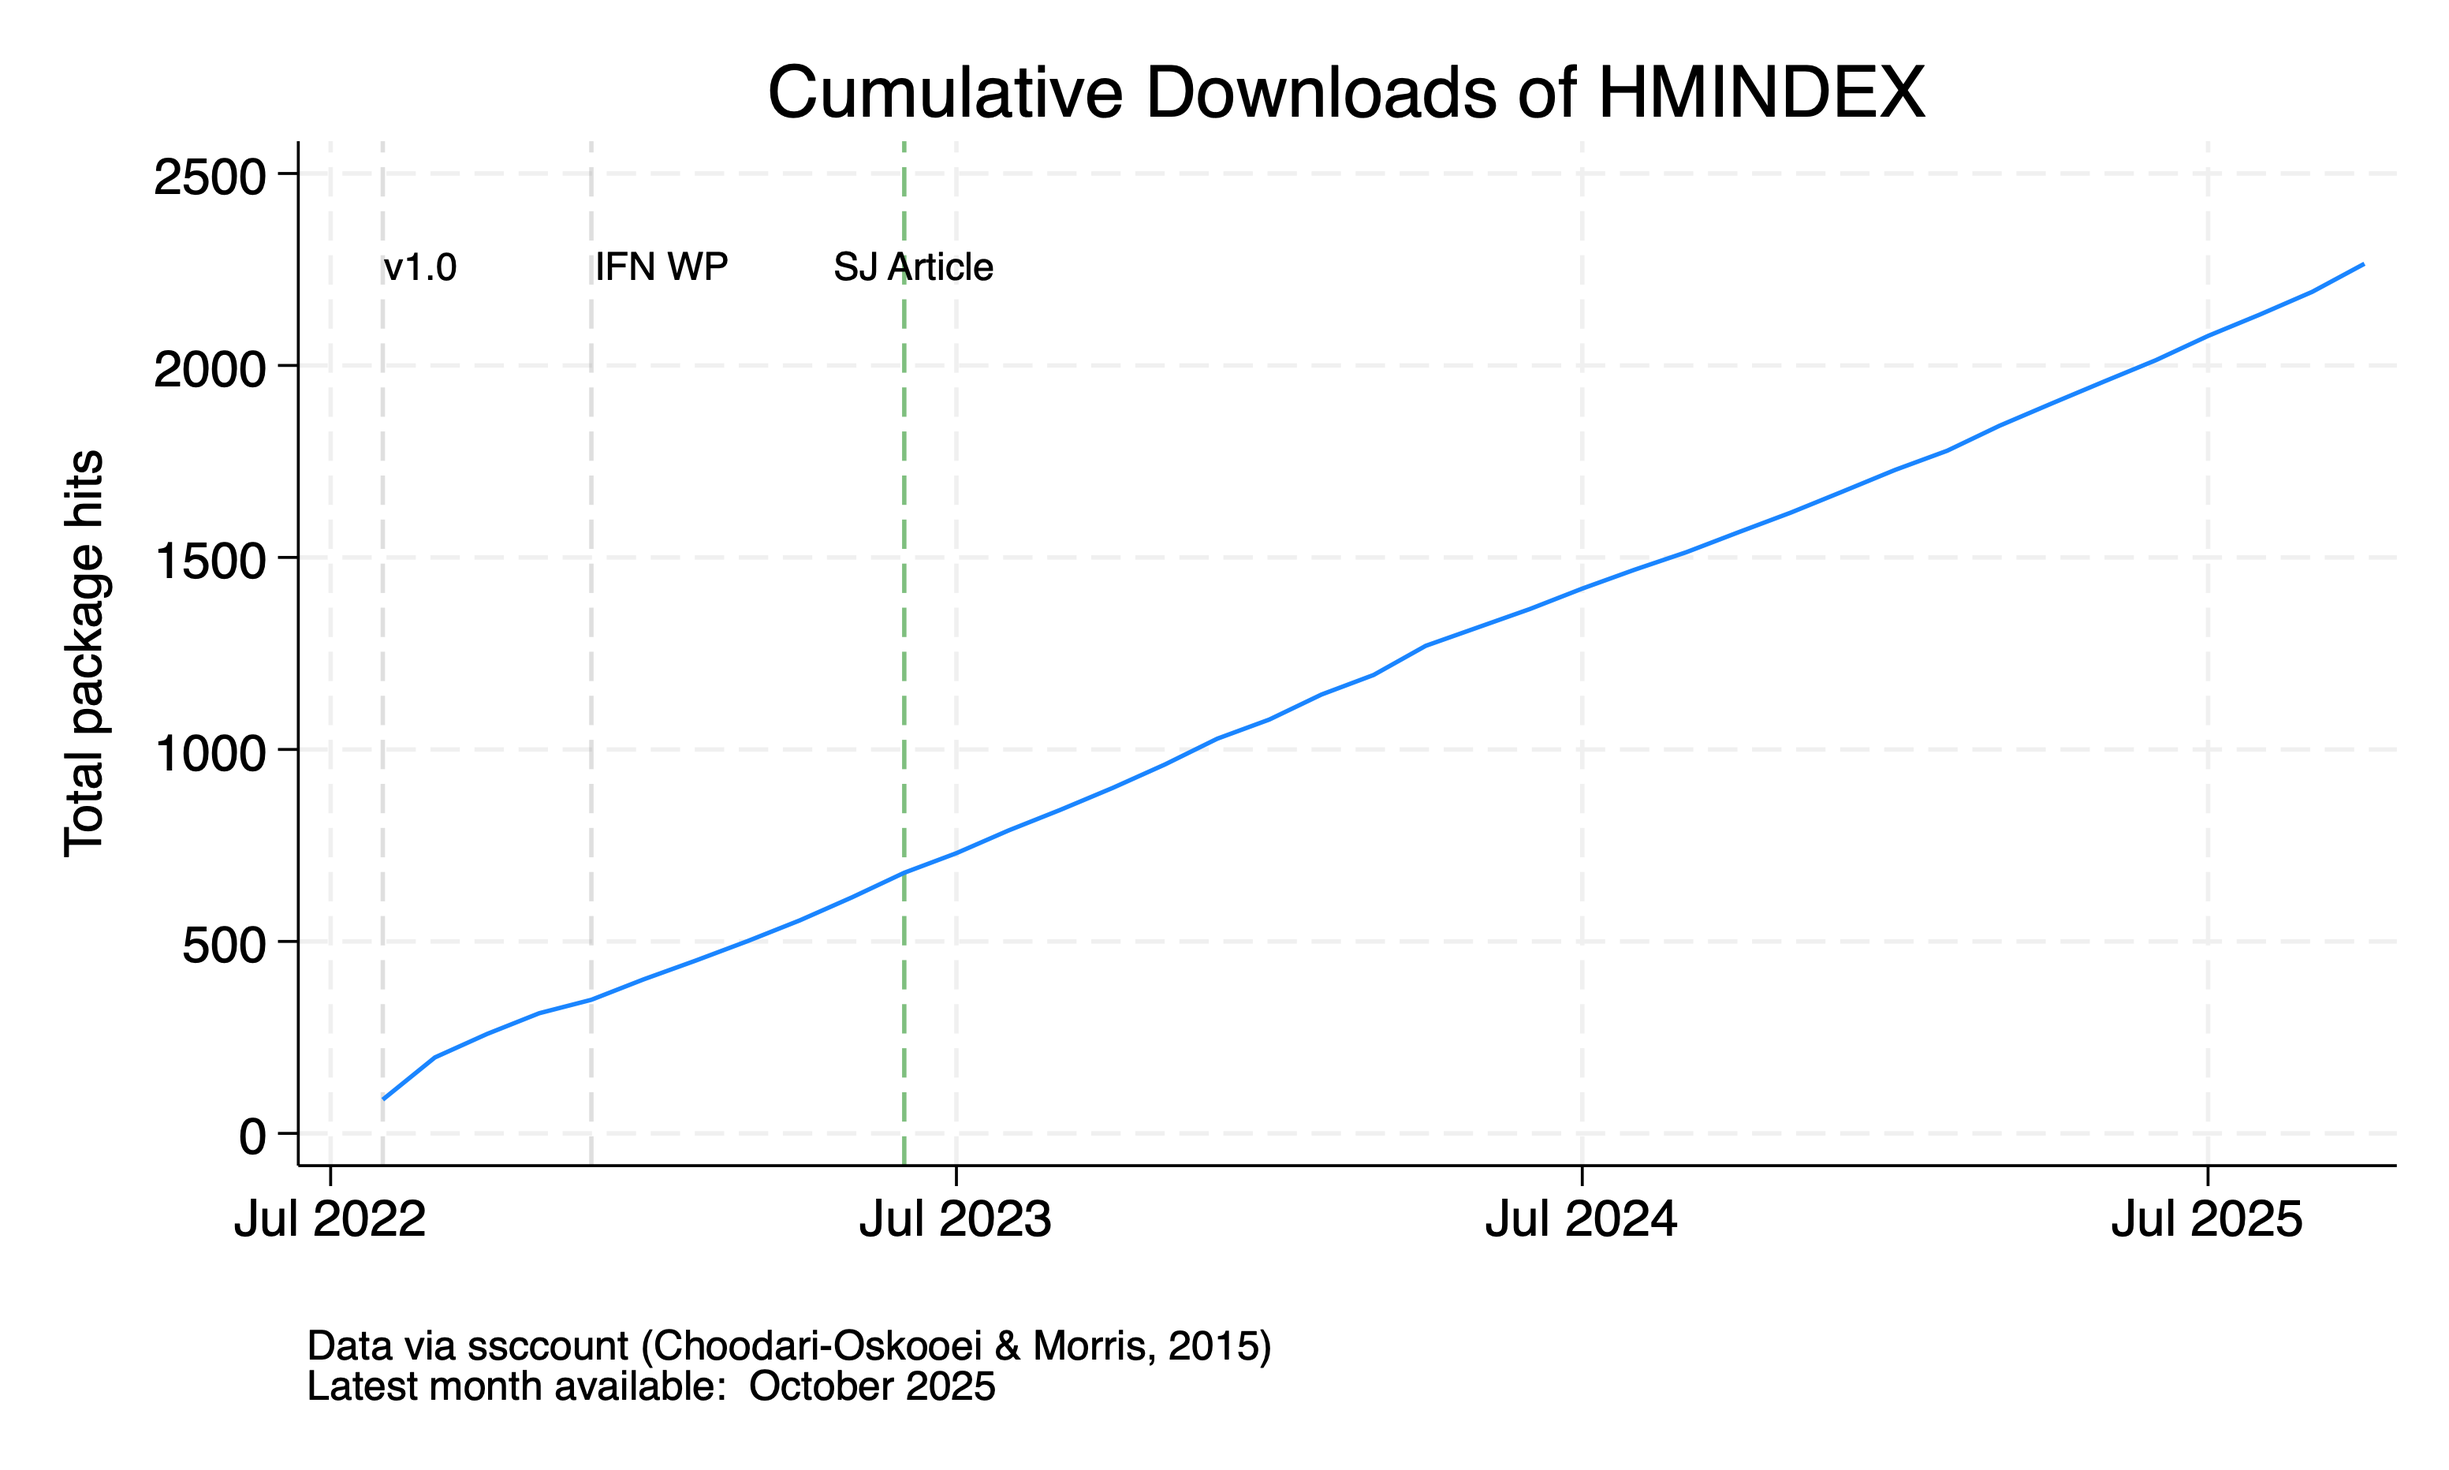
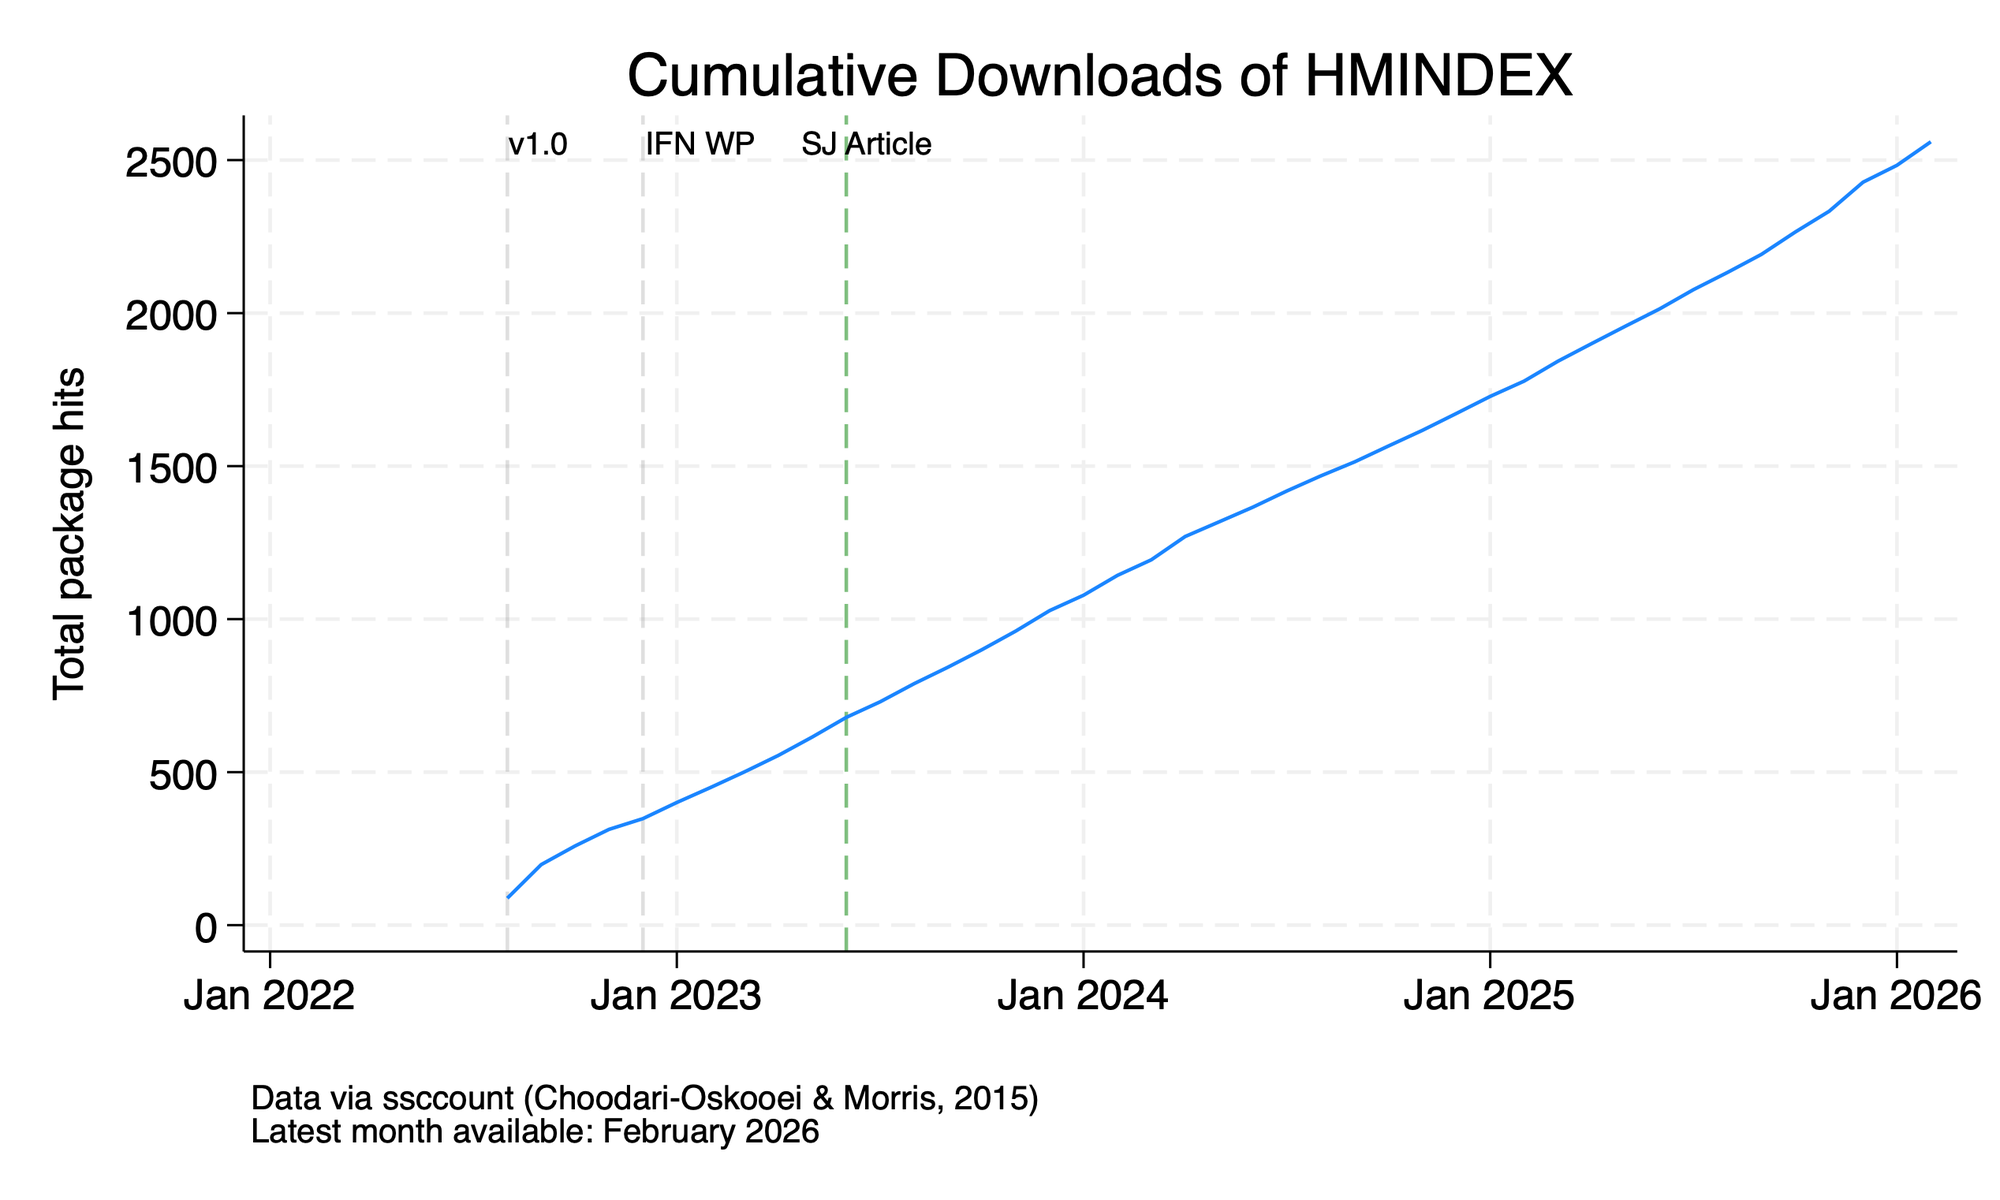
update npkghits

diff --git a/_research/2022-07-01-rpaxioms.md b/_research/2022-07-01-rpaxioms.md
@@ -17,7 +17,7 @@ household-level aggregate consumption data.
 ## Citation
 Demetry, M., Hjertstrand, P. and Polisson, M., 2022. Testing axioms of revealed preference in Stata. <i>The Stata Journal</i>, 22(2), pp.319-343.
 
-## Total downloads: 3,765
+## Total downloads: 4,117
 <img src="/assets/img/research-rpaxioms/rpaxioms_cumulative_hits.png" alt="number of downloads" width="100%"/>
 
 <details>

diff --git a/_research/2022-12-01-hmindex.md b/_research/2022-12-01-hmindex.md
@@ -13,7 +13,7 @@ note introduces the _Stata_ command __hmindex__, which calculates the Houtman-Ma
 prices and observed choices of a consumer. The command is illustrated with an empirical application.
 
 
-## Total downloads: 2,265
+## Total downloads: 2,560
 <img src="/assets/img/research-hmindex/hmindex_cumulative_hits.png" alt="number of downloads" width="100%"/>
 
 
